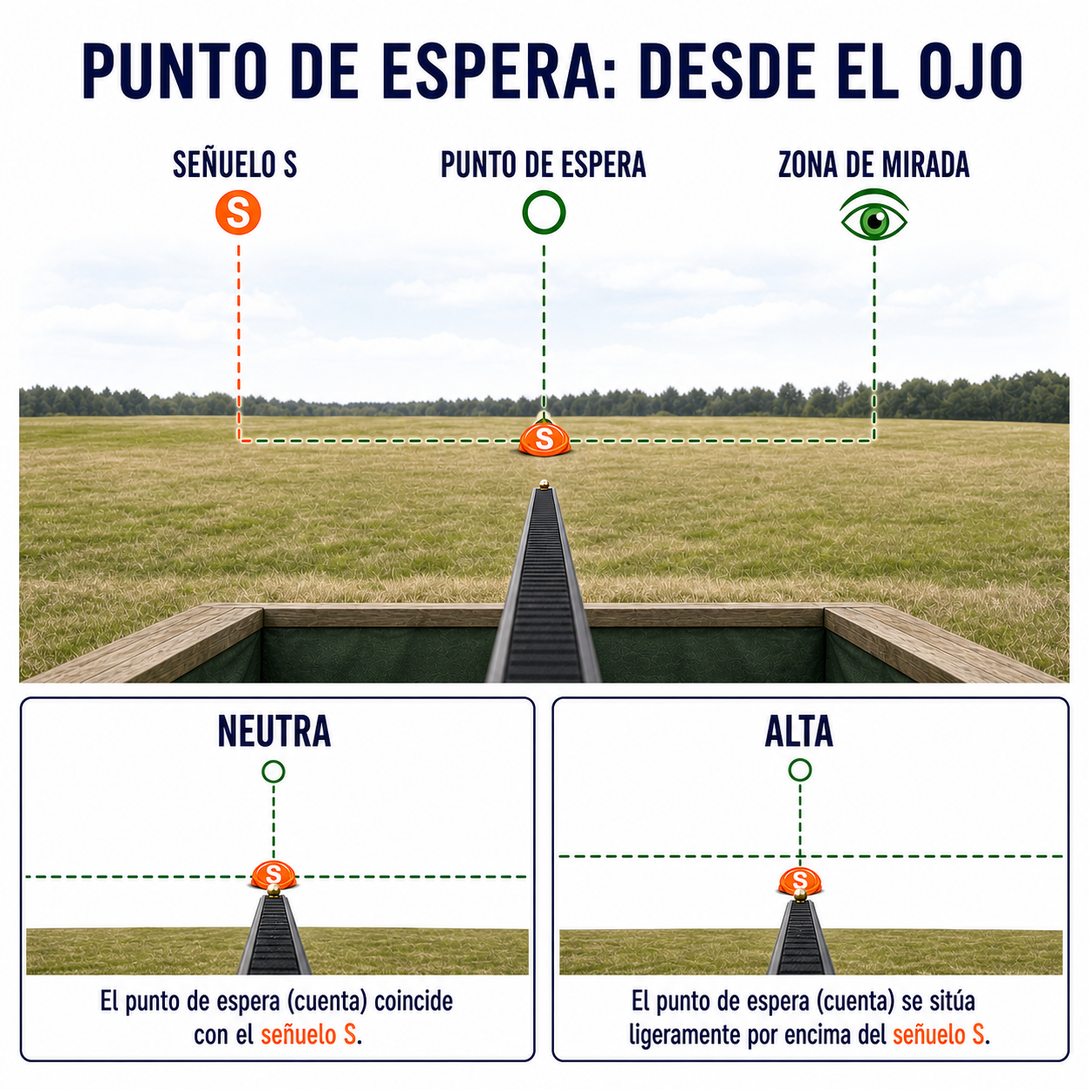
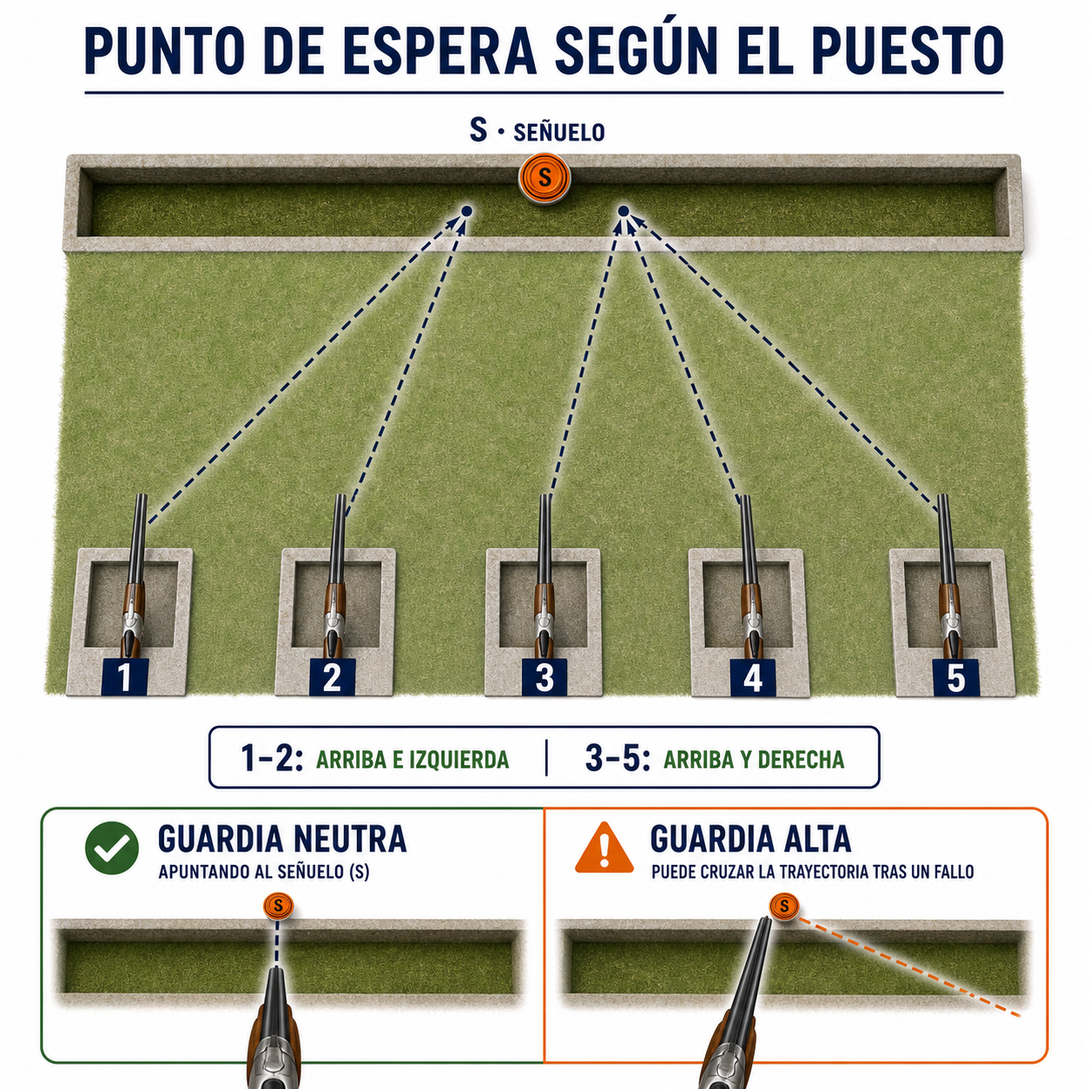
docs: corrige infografias y dinamica de cancha

diff --git a/index.html b/index.html
@@ -874,17 +874,18 @@
     <span class="section-number">4.3</span>
     <h3>Partes de una cancha de foso</h3>
   <p class="section-bridge">En una instalación compartida hay que respetar los límites y las órdenes de cada cancha, aunque alguna parezca parada. En una cancha de foso, la organización se divide en puestos, foso, máquinas y campo de caída.</p>
-    <p class="section-lead"><strong>Cinco puestos en línea</strong> miran hacia un foso situado a quince metros. El número y la posición de las máquinas dependen de la modalidad.</p>
+    <p class="section-lead"><strong>Cinco puestos forman una línea recta</strong>. El foso universal queda quince metros por delante y el sector de vuelo continúa más allá.</p>
     <figure class="figure micro-figure">
-      <img loading="lazy" src="docs/manual-libro/assets/images/infografias/subapartados/04-03-partes-de-una-cancha-de-foso.png" width="1254" height="1254" alt="Vista superior y corte lateral de una cancha de foso universal con cinco puestos, distancia de quince metros, cinco máquinas y sector de vuelo">
-      <figcaption>Esquema didáctico de foso universal: cinco máquinas. En foso olímpico, el mismo frente de cinco puestos trabaja con quince máquinas agrupadas de tres en tres.</figcaption>
+      <img loading="lazy" src="docs/manual-libro/assets/images/infografias/subapartados/04-03-partes-de-una-cancha-de-foso.png" width="1254" height="1254" alt="Vista superior de una cancha de foso universal: zona de espera detrás, cinco puestos en línea recta, foso a quince metros con cinco máquinas alineadas y sector de vuelo más allá del foso">
+      <figcaption>Foso Universal: espera detrás, cinco puestos en línea, quince metros hasta el foso, cinco máquinas alineadas dentro y sector de vuelo al fondo. El Foso Olímpico mantiene cinco puestos, pero emplea quince máquinas agrupadas de tres en tres.</figcaption>
     </figure>
-    <p>Los cinco puestos se numeran de izquierda a derecha. Cada uno mide un metro por un metro y está a quince metros del borde frontal del foso, dentro de las tolerancias reglamentarias. Una sexta persona espera detrás o junto al puesto 1.</p>
-    <p>El foso está protegido y en parte bajo tierra. El olímpico contiene quince máquinas, agrupadas de tres en tres. El universal contiene cinco. La figura muestra esta segunda configuración. En ambos casos, las máquinas lanzan desde debajo de la cubierta.</p>
-    <p>Por delante está el sector de vuelo. No debe confundirse con toda la zona de seguridad del campo. El reglamento deportivo limita las trayectorias válidas; el Reglamento de Armas protege un espacio mucho mayor alrededor de la instalación.</p>
+    <p>Los cinco puestos se numeran de izquierda a derecha y forman una sola línea. El foso está quince metros por delante de esa línea. La zona de espera queda detrás de los tiradores, nunca entre los puestos y el foso.</p>
+    <p>En Foso Universal hay <strong>cinco máquinas alineadas dentro del foso</strong>, una frente a cada parte de la línea de tiro. El foso está protegido y en parte bajo tierra. Los platos salen desde debajo de su cubierta y continúan hacia el campo.</p>
+    <p>Más allá del foso está el sector de vuelo. No debe confundirse con toda la zona de seguridad del campo. El reglamento limita las trayectorias válidas y el Reglamento de Armas protege un espacio mayor alrededor de la instalación.</p>
+    <p>En Foso Olímpico también hay cinco puestos en línea, pero el foso contiene quince máquinas: tres por cada puesto. Esta diferencia cambia el origen de los platos y no debe ocultarse en un dibujo genérico.</p>
     <p>La misma trayectoria se percibe de forma distinta desde cada puesto. Un plato puede parecer lateral desde el puesto 1 y casi frontal desde el 3. Cambia la posición del tirador, no el vuelo del plato.</p>
     <aside class="field-note"><strong>Ejemplo concreto.</strong> En foso universal, una salida de la máquina situada más a la derecha puede alejarse hacia la izquierda del campo. La persona del puesto 1 la percibe cruzando buena parte de su visión. Desde el puesto 5, el mismo origen queda más cerca y el ángulo aparente cambia. El número de máquina y el número de puesto no son intercambiables.</aside>
-    <p>La idea básica es fácil de recordar: <strong>cinco puestos, quince metros y el foso delante</strong>. La infografía explica relaciones espaciales, pero no sustituye el plano aprobado de una cancha real.</p>
+    <p>La idea básica es fácil de recordar: <strong>espera detrás, cinco puestos en línea, foso delante y vuelo más allá</strong>. La infografía explica relaciones espaciales, pero no sustituye el plano aprobado de una cancha real.</p>
     <aside class="technical-note"><strong>Lectura técnica.</strong> Hay que separar la obra del foso, la configuración de las máquinas y la visión desde cada puesto. Son tres problemas relacionados, pero distintos.</aside>
 </article>
 
@@ -953,9 +954,16 @@
       <img loading="lazy" src="docs/manual-libro/assets/images/infografias/subapartados/04-07-como-se-pide-un-plato.png" width="1254" height="1254" alt="Cadena de petición de plato mediante voz, micrófono, control, máquina y salida, con ruta de incidencia si la llamada no se detecta">
       <figcaption>La petición debe ser breve y reconocible. Si el sistema no responde, decide el árbitro o responsable. No decide el tirador por su cuenta.</figcaption>
     </figure>
-    <p>Cuando le toca, el tirador se prepara y dice “pull”, “va” u otra voz admitida. La palabra importa menos que su claridad. Conviene usar siempre una duración y un volumen parecidos.</p>
-    <p>El lanzamiento puede activarse con un pulsador o mediante micrófonos. El foso universal suele usar un sistema sono-pull que detecta la voz y distribuye las trayectorias. La salida debe ser inmediata, aunque siempre existe una pequeña demora del sistema.</p>
-    <p>Si el plato no sale, el tirador mantiene el arma controlada y espera. No vuelve a pedirlo ni decide la repetición por su cuenta. El árbitro o responsable determina qué ha ocurrido.</p>
+    <p>Cuando le toca, el tirador se prepara y utiliza una llamada que active el sistema: <em>pull</em>, <em>go</em>, «los» u otra admitida por la organización. Lo importante es que sea <strong>clara, breve y estable</strong>. Conviene mantener una duración, un volumen y un tono parecidos en cada plato.</p>
+    <p>El lanzamiento puede activarse con pulsador o con micrófonos. El sistema de voz escucha la llamada y ordena la salida del plato. No reconoce una palabra como un asistente de voz: responde al sonido. Por eso una voz concreta puede no activar bien un micrófono aunque otras sí lo hagan.</p>
+    <p>Si el sistema no detecta una llamada, el tirador mantiene el arma controlada y espera. No llama varias veces seguidas ni decide por su cuenta. Bajo la dirección del árbitro, puede probar una pequeña variación de vocal o de tono para que el micrófono reconozca mejor la llamada. El manual de Canterbury también advierte que algunas voces necesitan un ligero ajuste.</p>
+    <p>Antes de la primera ronda de cada día, FITASC permite una prueba del arma o <em>fogueo</em>. Se hace <strong>un tirador cada vez</strong>, en su puesto, siguiendo el orden de la escuadra y solo cuando lo ordena el árbitro. Los cañones apuntan hacia el campo y por encima de la caseta del foso, dentro de la zona segura.</p>
+    <figure class="figure supplemental-figure">
+      <img loading="lazy" src="docs/manual-libro/assets/images/infografias/extras/04-07-fogueo-y-llamada.png" width="1254" height="1254" alt="Infografía de seguridad sobre el fogueo autorizado antes de la primera serie y la llamada clara al micrófono de voz">
+      <figcaption>El fogueo se realiza de uno en uno y por orden del árbitro. La llamada debe ser breve y clara; si el micrófono no responde, se espera la indicación del responsable.</figcaption>
+    </figure>
+    <p>Esta prueba evita que el primer disparo puntuable llegue completamente en frío. También permite comprobar la secuencia de encare, seguro y disparo antes de pedir el primer plato. <strong>No sustituye la comprobación del estado del arma</strong> antes de cada intervención.</p>
+    <p>En algunos campos existe la costumbre de empezar ese fogueo por el sexto tirador o por quien está en espera. Es una organización local. No debe presentarse como una regla universal: el orden válido es el que indique el árbitro conforme al reglamento y al funcionamiento de la cancha.</p>
     <aside class="field-note"><strong>Ejemplo concreto.</strong> Elena dice “va” una sola vez y no aparece ningún blanco. Permanece en el puesto y mira al responsable. Este confirma que el micrófono no registró la voz. Reinicia la secuencia y le indica cuándo volver a pedir. La ausencia de plato no se convierte en dos llamadas superpuestas.</aside>
     <aside class="personal-note"><strong>Comentario personal.</strong> Practicar varias llamadas iguales, sin lanzar platos, puede reducir la tensión. Debe hacerse con permiso del monitor.</aside>
     <p>El simulador representa la orden, una demora y el vuelo. No reproduce la acústica, el micrófono ni las averías de una cancha real.</p>
@@ -1155,9 +1163,9 @@
   <aside class="personal-note"><strong>Comentario personal.</strong> En mi entorno he oído llamar «caramelo» a esa molestia o inflamación de la cara. Es una palabra de campo, no un término clínico.</aside>
   <p>La mano dominante no basta para elegir el lado ni el ajuste de la culata. También importan el hombro de apoyo y el ojo director. La prueba sencilla del ojo director se explica en <a href="#s06-10">6.10, Mirar el cañón en vez del plato</a>. Si el ojo director y el hombro de tiro no coinciden, un instructor debe valorar la postura y las posibles ayudas visuales antes de modificar el arma.</p>
   <figure class="figure supplemental-figure"><img loading="lazy" src="docs/manual-libro/assets/images/infografias/extras/05-08-ojo-director.png" alt="Prueba sencilla del triángulo formado con las manos para identificar el ojo director" width="1254" height="1254"><figcaption>El ojo que mantiene el objeto centrado al alternar el cierre de cada ojo es el ojo director. La cabeza y las manos deben permanecer quietas.</figcaption></figure>
-  <figure class="figure supplemental-figure"><img loading="lazy" src="docs/manual-libro/assets/images/infografias/extras/05-08-dominancia-cruzada.png" alt="Dominancia cruzada en un tirador diestro y uso orientativo de un pequeño oclusor en el lente izquierdo" width="1254" height="1254"><figcaption>Un pequeño oclusor puede evitar que el ojo dominante vea el punto de mira y permitir mantener ambos ojos abiertos. Debe colocarse y comprobarse con ayuda de un instructor.</figcaption></figure>
-  <p>Un experto puede observar desde delante y fuera de la línea de la boca si el ojo queda centrado sobre la banda. <strong>La comprobación empieza siempre con la escopeta abierta, descargada y orientada de forma segura.</strong> Nunca se mira por la boca ni se enfrenta la línea de los cañones. Esta observación detecta desalineaciones, pero el ajuste final exige varios encares y una prueba de plomeo.</p>
-  <figure class="figure supplemental-figure"><img loading="lazy" src="docs/manual-libro/assets/images/infografias/extras/05-08-comprobacion-segura-ajuste.png" alt="Vista superior de una comprobación segura del ajuste con el arma abierta, zona segura y el instructor situado a un lateral" width="1254" height="1254"><figcaption>La observación se realiza con el arma abierta y vacía, orientada a una zona segura y sin nadie delante de las bocas.</figcaption></figure>
+  <figure class="figure supplemental-figure"><img loading="lazy" src="docs/manual-libro/assets/images/infografias/extras/05-08-dominancia-cruzada.png" alt="Tirador diestro con ojo director izquierdo y pequeño oclusor colocado por un instructor en la lente izquierda, sobre la línea visual de ese ojo" width="1254" height="1254"><figcaption>Si un tirador diestro tiene como director el ojo izquierdo, un instructor puede colocar un pequeño oclusor en la lente izquierda, justo sobre la línea con la que ese ojo ve el punto de mira. Así se reduce su interferencia y puede ser posible mantener ambos ojos abiertos.</figcaption></figure>
+  <p>En algunos campos existe una práctica para comprobar desde delante si el ojo, la banda y el punto de mira quedan alineados. <strong>Es una maniobra intrínsecamente peligrosa porque una persona se sitúa delante de las bocas.</strong> Nunca debe improvisarse ni realizarse entre tiradores. Solo puede dirigirla un instructor competente o la persona responsable de la instalación, con la escopeta abierta y completamente descargada, las recámaras comprobadas física y visualmente y toda la munición retirada de la zona. Siempre deben preferirse alternativas más seguras que no coloquen a nadie delante de los cañones. Esta observación puede revelar una desalineación, pero no sustituye varios encares ni una prueba de plomeo.</p>
+  <figure class="figure supplemental-figure"><img loading="lazy" src="docs/manual-libro/assets/images/infografias/extras/05-08-comprobacion-segura-ajuste.png" alt="Comprobación excepcional de la alineación ojo, banda y punto desde delante de una escopeta abierta y totalmente descargada, dirigida por un instructor competente y sin munición presente" width="1254" height="1254"><figcaption>Esta comprobación frontal existe como práctica de campo, pero implica que alguien esté delante de las bocas. No se improvisa: solo la dirige una persona competente, con el arma abierta y totalmente descargada, recámaras verificadas y sin munición; siempre se prefieren alternativas más seguras.</figcaption></figure>
   <p>La ropa de invierno cambia la longitud efectiva y el apoyo. Por eso el ajuste debe comprobarse en las condiciones habituales, sin perseguir diferencias mínimas cada semana.</p>
   <aside class="field-note"><strong>Ejemplo concreto.</strong> Pablo repite cinco encares descargados. El instructor ve que inclina la cabeza, corrige primero la postura y solo después mueve el lomo. Finalmente comprueba el resultado en una plancha de plomeo.</aside>
   <aside class="technical-note"><strong>Capa técnica.</strong> Un ajuste quieto no garantiza un buen encare en movimiento. Se anotan las medidas, se cambia una sola variable y se vuelve a comprobar.</aside>
@@ -1915,17 +1923,19 @@
     <span class="section-number">8.10</span>
     <h3>Punto de espera</h3>
   <p class="section-bridge">Cada método organiza de forma distinta la aproximación, el adelanto y la continuación del movimiento, pero todos buscan el mismo encuentro físico. El punto de espera marca dónde comienza ese recorrido.</p>
-    <p class="section-lead"><strong>El punto de espera es la orientación inicial de los cañones antes de la salida.</strong> Debe verse siempre desde el ojo del tirador hacia el señuelo, no desde fuera ni desde abajo.</p>
+    <p class="section-lead"><strong>El punto de espera es la orientación inicial de una escopeta superpuesta antes de la salida.</strong> Se describe en primera persona: desde mi ojo, alineado detrás de la banda superior y el punto delantero, miro hacia el señuelo S.</p>
     <figure class="figure micro-figure">
-      <img loading="lazy" src="docs/manual-libro/assets/images/infografias/subapartados/08-10-punto-de-espera.png" width="1254" height="1254" alt="Secuencia espacial entre máquina, zona de mirada, punto de espera, adquisición y zona de rotura">
-      <figcaption>Mirada y cañón usan referencias distintas. El ojo detecta antes. El arma espera en una zona desde la que puede incorporarse con fluidez.</figcaption>
+      <img loading="lazy" src="docs/manual-libro/assets/images/infografias/subapartados/08-10-punto-de-espera.png" width="1254" height="1254" alt="Vista en primera persona desde el ojo del tirador, alineado con la banda superior y el punto delantero de una escopeta superpuesta: guarda neutra sobre el señuelo S y referencias de entrenamiento ligeramente arriba a la izquierda en los puestos 1 y 2, y ligeramente arriba a la derecha en los puestos 3, 4 y 5">
+      <figcaption>Desde mi ojo hacia el señuelo S: guarda neutra sobre S; como referencia de entrenamiento del autor, puestos 1-2 ligeramente arriba a la izquierda y puestos 3-5 ligeramente arriba a la derecha. Son orientaciones de la superpuesta, no posiciones físicas del tirador ni una regla universal.</figcaption>
     </figure>
-    <p>Desde el ojo, el tirador mira hacia el señuelo mientras la escopeta queda encarada. Esperar directamente sobre la boca de la máquina puede tapar la primera visión y obligar a perseguir el plato. La CPSA aconseja una orientación que conserve campo visual y dé tiempo para entrar en la línea.</p>
-    <p>Tampoco conviene colocar el arma tan lejos que obligue a volver sobre el blanco o a sostener tensión innecesaria. El lugar depende del puesto, la modalidad, la dirección posible, la altura, el método y la postura. En foso, donde la salida puede variar dentro de un sector, el punto de espera es un compromiso. Debe permitir responder a izquierda, centro y derecha sin intentar adivinar una máquina concreta.</p>
+    <p>La referencia concreta aportada por el autor para entrenar es esta: <strong>en los puestos 1 y 2, orientar la superpuesta ligeramente por encima y a la izquierda del señuelo S; en los puestos 3, 4 y 5, ligeramente por encima y a la derecha.</strong> Describe una aproximación de entrenamiento basada en su experiencia. No sustituye la indicación de un instructor ni sirve como regla universal para cualquier tirador, modalidad o cancha.</p>
+    <p>La guarda neutra coloca la orientación inicial sobre el señuelo S. Desde ahí, la escopeta tiene una ruta directa para entrar en la trayectoria que aparezca y facilita mantener la continuidad si hace falta un segundo disparo. No elimina la necesidad de detectar el plato, leer su dirección y adaptar el movimiento.</p>
+    <p>Una guarda más alta puede acortar el primer movimiento cuando la salida coincide con la previsión. También introduce un riesgo: los cañones pueden cruzar la línea de vuelo. Si el primer tiro falla, quizá haya que volver a encontrar el plato y reconstruir el apunte. Para entonces estará más lejos y puede haber empezado a descender. El problema aumenta en quien está acostumbrado a una banda plana y cubre el plato con la superpuesta, porque puede perderlo de vista justo cuando necesita preparar el segundo tiro.</p>
+    <p>Tampoco conviene orientar el arma tan lejos que obligue a volver sobre el blanco o a mantener tensión. El punto adecuado depende del puesto, la modalidad, la salida posible, el método, la postura y la adaptación de la superpuesta. En foso es un compromiso que debe permitir responder a izquierda, centro y derecha sin adivinar una máquina concreta.</p>
     <p><strong>Zona de mirada, punto de espera y zona de rotura no son lo mismo.</strong> Los ojos esperan detectar; los cañones parten de una orientación; y el disparo se completa más adelante. Si el alumno fija la vista en el punto de mira, pierde información del fondo y del plato.</p>
     <p>La postura se organiza hacia la zona de rotura para conservar recorrido corporal a ambos lados. Un instructor debe adaptar esta decisión a la movilidad y lateralidad del tirador. La boca permanece siempre dentro de la zona autorizada.</p>
-    <p>Plato incluye una posición de guardia y reajusta el encare al pedir o repetir. Esa guardia es una referencia de interfaz, no una indicación para la cancha. Su utilidad didáctica aparece al comparar puestos. Mantener el esquema y cambiar el ojo virtual permite ver que la misma máquina modifica el ángulo aparente. Por eso puede justificar otra espera.</p>
-    <aside class="field-note"><strong>Ejercicio concreto.</strong> Con un instructor, elige una salida repetible y marca verbalmente «mirada», «espera» y «rotura». Haz varias observaciones sin cambiar esos tres lugares. Si el plato cruza el cañón antes de verse nítido, revisa primero la separación entre mirada y espera.</aside>
+    <p>Plato incluye una posición de guardia y reajusta el encare al pedir o repetir. Es una referencia de interfaz, no una prescripción para la cancha. Su utilidad consiste en comparar, desde el ojo virtual, cómo cambia el recorrido inicial entre la guarda neutra y una guarda algo más alta.</p>
+    <aside class="field-note"><strong>Ejercicio concreto.</strong> Con un instructor, compara la guarda neutra sobre S con la referencia del puesto: ligeramente arriba-izquierda en 1-2 o arriba-derecha en 3-5. Observa la ruta del primer movimiento y, tras un fallo simulado, si puedes conservar el plato visible y construir el segundo sin volver a buscarlo.</aside>
     <aside class="technical-note"><strong>Problema de optimización.</strong> El punto de espera reduce el recorrido esperado del arma cuando hay incertidumbre. Pero no puede hacerlo mínimo para todas las trayectorias a la vez. Una elección razonable equilibra visibilidad, amplitud angular y capacidad corporal. Los valores óptimos son personales y dependen del contexto.</aside>
 </article>
 
@@ -1950,36 +1960,36 @@
     <span class="section-number">8.12</span>
     <h3>Relación entre culata y geometría</h3>
   <p class="section-bridge">La mirada necesita espacio para encontrar y reconocer el blanco antes de guiar el arma; mirar el cañón reduce esa información. La relación entre la culata y el ojo puede facilitar o dificultar esta visión.</p>
-    <p class="section-lead"><strong>En una escopeta, el ojo que queda sobre la banda actúa como referencia trasera.</strong> La culata decide dónde se coloca ese ojo. Por eso la altura, la lateralidad y la repetición del encare pueden cambiar el centro del patrón respecto a la imagen.</p>
+    <p class="section-lead"><strong>En una escopeta superpuesta, el ojo actúa como referencia trasera al quedar alineado detrás de la banda superior y del punto delantero.</strong> Se apunta a lo largo de esa banda; nunca se mira a través de la culata.</p>
     <figure class="figure micro-figure">
-      <img loading="lazy" src="docs/manual-libro/assets/images/infografias/subapartados/08-12-relacion-entre-culata-y-geometria.png" width="1254" height="1254" alt="Relación entre altura del lomo, posición del ojo, banda visible y punto de impacto comprobado en plancha">
-      <figcaption>Elevar el ojo cambia la orientación que adopta el arma. Pero el resultado debe medirse con un patrón y un encare repetible, no deducirse solo por la banda visible.</figcaption>
+      <img loading="lazy" src="docs/manual-libro/assets/images/infografias/subapartados/08-12-relacion-entre-culata-y-geometria.png" width="1254" height="1254" alt="Vista desde el ojo detrás de la banda superior de una escopeta superpuesta, alineada con el punto delantero; la culata coloca el ojo pero nunca se mira a través de ella, y el punto de impacto se comprueba en plancha">
+      <figcaption>En una superpuesta, el ojo queda detrás de la banda superior y orienta con el punto delantero. La culata coloca el ojo; no es un elemento a través del cual se mire. El resultado se comprueba con encare repetible y plomeo real.</figcaption>
     </figure>
-    <p>Una escopeta no tiene, en el uso tradicional, alza y punto como un rifle. Cuando se monta de forma constante, el ojo situado sobre la culata completa la línea de orientación. Si queda demasiado bajo, alto o desplazado, el tirador puede presentar otra dirección aunque el punto delantero parezca cerca del plato. La cantidad de banda visible es una señal de encare. No es, por sí sola, una medida del punto de impacto.</p>
-    <p>Subir un lomo ajustable eleva la mejilla y normalmente también el ojo. En modelos documentados por Browning, el lomo permite variar altura y <em>cast</em> para alinear el ojo con el plano de la banda. <em>Cast</em> es el desplazamiento lateral de la culata. La Citori Plus ofrece además una banda regulable que cambia el punto de impacto. Estos mecanismos no deben generalizarse. Cada sistema tiene recorrido, pivote y procedimiento propios, y se ajusta con el arma descargada siguiendo su manual.</p>
+    <p>Una superpuesta de plato no se apunta como un rifle. Al encararla de forma constante, el ojo queda como referencia trasera detrás de la banda superior y el punto delantero. La orientación se construye mirando a lo largo de la parte alta de la banda hacia ese punto, con la atención principal en el plato. <strong>Nunca se mira a través de la culata:</strong> la culata solo coloca la cara y, con ella, el ojo. Si el ojo queda bajo, alto o desplazado, cambia la dirección presentada aunque el punto delantero parezca cercano al plato.</p>
+    <p>Subir un lomo ajustable eleva la mejilla y normalmente también el ojo respecto a la banda superior. En los modelos superpuestos documentados por Browning, el lomo permite variar altura y <em>cast</em> para alinear el ojo con el plano de la banda. <em>Cast</em> es el desplazamiento lateral de la culata. La Citori Plus ofrece además una banda regulable que cambia el punto de impacto. Estos mecanismos no deben generalizarse: cada superpuesta tiene su propio recorrido y procedimiento, y se ajusta descargada según su manual.</p>
     <p>Una escopeta que dispara alto coloca más parte del patrón sobre el punto de mira y puede mantener visible un plato ascendente. Una configuración más plana centra el patrón cerca de la línea señalada. Expresiones como 50/50 o 70/30 describen una distribución observada a una distancia y con un método de plomeo. No son una propiedad exacta que permanezca igual con cualquier cartucho, choke, encare o distancia.</p>
     <p>La técnica y la mecánica se confunden con facilidad. Si la cara se despega en el primer disparo, el ojo cambia y el segundo sale desde otra geometría. Elevar el lomo no corrige ese hábito. Si varios patrones repetidos con cuidado muestran un centro estable fuera de la referencia, entonces hay base para revisar la adaptación. El orden es comprobar encare, medir patrón, cambiar poco y volver a medir con ayuda competente.</p>
     <p>Plato representa la ganancia de solista como una elevación balística del disparo sin cambiar el ancho visual de la banda. Es una abstracción declarada. Permite observar cómo un centro más alto cambia la referencia amarilla, pero no reproduce anatomía, convergencia de cañones ni el mecanismo concreto de una culata.</p>
     <aside class="field-note"><strong>Decisión práctica.</strong> Antes de mover tornillos, el tirador hace varias montas supervisadas y varios patrones según el manual. Si el centro varía de uno a otro, se trabaja la repetibilidad. Si permanece desplazado, se registra el ajuste inicial y se consulta a un instructor, armero o fabricante.</aside>
-    <aside class="technical-note"><strong>Cadena angular.</strong> Culata, ojo, banda y eje del patrón forman una cadena de orientaciones. Un pequeño cambio cerca del ojo produce un desplazamiento que crece con la distancia. Esta relación no permite predecir centímetros sin conocer la geometría del arma y sin hacer una prueba real.</aside>
+    <aside class="technical-note"><strong>Cadena angular.</strong> En una superpuesta, la culata coloca el ojo; el ojo queda detrás de la banda superior; la banda conduce al punto delantero; y esa orientación se relaciona con el eje del patrón. Un pequeño cambio cerca del ojo crece con la distancia, pero no permite predecir centímetros sin conocer el arma y comprobarla en una prueba real.</aside>
 </article>
 
   <article class="book-section" id="s08-13" data-section="8.13">
     <span class="section-number">8.13</span>
     <h3>Primer y segundo disparo</h3>
   <p class="section-bridge">La culata no cambia la trayectoria del plato, pero sí relaciona lo que ve el ojo con el centro del patrón. Esta relación es especialmente importante al comparar el primer y el segundo disparo.</p>
-    <p class="section-lead"><strong>El segundo disparo no repite la fotografía del primero.</strong> El plato está más lejos, en otra fase de su arco, y puede haberse perdido un instante detrás de los cañones o de la propia rotura.</p>
+    <p class="section-lead"><strong>En una superpuesta, ambos disparos se orientan desde el ojo por la banda superior y el punto delantero.</strong> El segundo no repite el primero: el plato está más lejos y en otra fase de su vuelo.</p>
     <figure class="figure micro-figure">
-      <img loading="lazy" src="docs/manual-libro/assets/images/infografias/subapartados/08-13-primer-y-segundo-disparo.png" width="1254" height="1254" alt="Cronología comparada del primer y segundo disparo con mayor distancia, trayectoria avanzada, chokes distintos y recuperación visual sin levantar la cabeza">
-      <figcaption>Entre los dos tiros cambian distancia, altura, velocidad y patrón. La continuidad de mirada, cara y arma permite construir una segunda solución en vez de repetir la primera.</figcaption>
+      <img loading="lazy" src="docs/manual-libro/assets/images/infografias/subapartados/08-13-primer-y-segundo-disparo.png" width="1254" height="1254" alt="Vista desde el ojo alineado detrás de la banda superior y el punto delantero de una escopeta superpuesta durante el primer y segundo disparo; el plato está más lejos y puede descender, sin mirar nunca a través de la culata">
+      <figcaption>Desde el ojo, la referencia sigue la banda superior y el punto delantero de la superpuesta. Entre los tiros cambian distancia, altura y patrón; mantener cara, mirada y movimiento ayuda a construir la segunda solución sin mirar a través de la culata ni volver a buscar el plato.</figcaption>
     </figure>
-    <p>Tras un primer fallo, el plato continúa. La distancia adicional alarga el recorrido del plomeo. El blanco puede estar cerca de la cumbre o haber empezado a bajar. Su velocidad vertical cambia y su tamaño aparente disminuye. Por tanto, mantener exactamente la misma orientación del primer disparo no garantiza otro encuentro. Hay que actualizar la lectura sin convertir el segundo tiro en un tirón desesperado.</p>
-    <p>La nube también puede ser distinta. Muchas escopetas superpuestas combinan un primer cañón más abierto con un segundo más cerrado para conservar densidad a mayor distancia. La elección depende de la presentación, la modalidad y el reglamento. Un choke más cerrado no «lleva más lejos» el centro ni corrige un error de dirección. Cambia la distribución. Cartucho, cañón y choke reales deben comprobarse en plancha. El simulador usa controles separados para los dos plomeos y genera variación entre perdigones. Es una comparación pedagógica, no una prueba del arma.</p>
-    <p>El problema más visible suele aparecer entre disparos. El tirador levanta la cabeza para comprobar si rompió, mira los fragmentos o pierde el plato detrás del cañón. Al volver, el ojo ya no ocupa la misma referencia y la línea ha envejecido. Mantener la mejilla en contacto, la atención en el blanco y el arma en movimiento conserva información para corregir. No significa disparar dos veces de forma automática. Las reglas, el estado del blanco y la seguridad determinan cuándo procede.</p>
+    <p>Tras un primer fallo, el plato continúa. La distancia adicional alarga el recorrido del plomeo; el blanco puede estar cerca de la cumbre o haber empezado a bajar. El tirador mantiene el ojo detrás de la banda superior de la superpuesta y orienta por el punto delantero, pero actualiza el encuentro. Repetir exactamente el primer apunte no garantiza el segundo.</p>
+    <p>La nube también puede ser distinta. Muchas superpuestas de plato combinan un primer cañón más abierto con un segundo más cerrado para conservar densidad a mayor distancia. Es una configuración frecuente, no una regla universal: depende del arma, la modalidad y el reglamento. Un choke más cerrado no corrige la dirección; cambia la distribución. Cartucho, cañón y choke deben comprobarse en plancha. Los dos controles de Plato son una comparación pedagógica, no una prueba de la superpuesta real.</p>
+    <p>El problema más visible aparece cuando el tirador levanta la cabeza para comprobar el resultado o pierde el plato detrás de los cañones. Al volver, el ojo ya no ocupa la misma referencia detrás de la banda superior. Mantener la mejilla en contacto, la atención en el blanco y la superpuesta en movimiento conserva información para corregir. No significa disparar dos veces de forma automática: las reglas, el estado del blanco y la seguridad determinan cuándo procede.</p>
     <p>La corrección debe basarse en la evidencia disponible. Si el primer tiro levantó un fragmento visible de la parte trasera, podría sugerir un encuentro retrasado. Pero una rotura parcial no es un instrumento preciso. Si no hubo señal, el tirador no debe inventar una gran compensación. Un instructor puede observar continuidad, altura de cabeza y dirección. En el simulador, las dos ventanas congelan por separado el centro del patrón y sus componentes de error.</p>
     <p>Esta última unidad reúne el capítulo. La regla sigue siendo coincidencia en tiempo y espacio, pero cada instante construye un punto de encuentro nuevo. La comparación de cinco platos enseña que no existe un único hueco. La secuencia mirada, espera, aparición y seguimiento permite llegar a ese encuentro con orden. El segundo disparo demuestra por qué la geometría debe mantenerse viva hasta que termina la acción.</p>
     <aside class="field-note"><strong>Ejercicio concreto.</strong> En Plato, usa una trayectoria repetida y conserva visibles ambas correcciones. Dispara primero de forma deliberadamente retrasada y construye el segundo sin levantar el punto de vista. Compara distancia, altura y patrón de cada ventana. En cancha real, este trabajo exige supervisión y cumplimiento estricto de modalidad y seguridad.</aside>
-    <aside class="technical-note"><strong>Modelo y límite.</strong> El código aplica la misma velocidad efectiva base a ambos disparos. Cambia la apertura según el control de cada tiro y evalúa cada nube contra la posición futura correspondiente. No reproduce cambio real de cañón, retroceso, recuperación mecánica ni deformación específica del cartucho.</aside>
+    <aside class="technical-note"><strong>Modelo y límite.</strong> El código representa una superpuesta con dos disparos y aplica la misma velocidad efectiva base a ambos. Cambia la apertura y evalúa cada nube contra la posición futura correspondiente. No reproduce la geometría real de la banda superior y el punto delantero, el cambio de cañón, el retroceso, la recuperación mecánica ni la deformación específica del cartucho.</aside>
 </article>
 
   <div class="chapter-summary">
@@ -2467,8 +2477,8 @@
   <p class="section-bridge">El cartucho determina cuánto tarda el plomeo y qué energía conserva al llegar, no solo su velocidad de salida. Los chokes regulan la apertura de la nube en cada tiro.</p>
     <p class="section-lead"><strong>Plato permite elegir una apertura para el primer tiro y otra para el segundo.</strong> Un patrón más abierto cubre más espacio, pero no garantiza el acierto porque también reparte más los perdigones.</p>
     <figure class="figure micro-figure">
-      <img loading="lazy" src="docs/manual-libro/assets/images/infografias/subapartados/10-10-chokes.png" width="1254" height="1254" alt="Comparación de cuatro conos de plomeo etiquetados Full, tres cuartos, medio y abierto a dos distancias">
-      <figcaption>El deslizador controla la apertura del cono, no una probabilidad de acierto. Con distancia, el radio crece y la misma cantidad simulada de perdigones se reparte más.</figcaption>
+      <img loading="lazy" src="docs/manual-libro/assets/images/infografias/subapartados/10-10-chokes.png" width="1254" height="1254" alt="Escopeta superpuesta abierta y descargada junto a dos planchas que comparan el patrón más abierto de tres cuartos con el patrón más cerrado y denso de Full">
+      <figcaption>A la misma distancia, 3/4 cubre una zona mayor y Full concentra más el patrón. Ningún choke corrige un error de dirección.</figcaption>
     </figure>
     <p>Los controles se llaman «Plomeo tiro 1» y «Plomeo tiro 2», porque lo que el usuario ve es el patrón resultante. Cada uno recorre una escala interna de 0 a 100. La interfaz traduce los intervalos a etiquetas: hasta 20, Full; hasta 35, 3/4; hasta 55, 1/2; hasta 75, 1/4; y por encima, abierto. Los valores iniciales son 30 y 20, es decir, 3/4 para el primero y Full para el segundo.</p>
     <p>El radio del patrón se calcula con un término fijo, otro ligado al valor de apertura y otro que crece con la distancia. Un valor alto produce un cono más ancho; uno bajo, más estrecho. La nube azul en vivo adopta el control que corresponde al próximo cartucho. Después del primer disparo fallado, la visualización pasa automáticamente al segundo choke.</p>
@@ -2485,8 +2495,8 @@
   <p class="section-bridge">Elegir chokes distintos para el primer y el segundo tiro permite comparar densidades diferentes a distintas distancias. La ganancia de solista desplaza en vertical el centro real del disparo respecto a la mira.</p>
     <p class="section-lead"><strong>La mira puede quedar por debajo del centro real del disparo.</strong> Esta separación intenta mostrar de forma sencilla el efecto de la ganancia de solista sobre el punto de impacto.</p>
     <figure class="figure micro-figure">
-      <img loading="lazy" src="docs/manual-libro/assets/images/infografias/subapartados/10-11-ganancia-de-solista.png" width="1254" height="1254" alt="Corte lateral comparando solista plana y solista con ganancia, con mira roja, eje visual y centro físico del disparo">
-      <figcaption>La ganancia separa referencia visual y dirección física: la mira roja permanece sobre el objetivo elegido mientras el centro azul claro se eleva hasta 0,96°.</figcaption>
+      <img loading="lazy" src="docs/manual-libro/assets/images/infografias/subapartados/10-11-ganancia-de-solista.png" width="1254" height="1254" alt="Comparación desde el ojo del tirador entre ganancia plana y alta: la solista mantiene su anchura mientras el centro físico azul del disparo queda por encima del punto rojo de mira">
+      <figcaption>La ganancia no ensancha la solista. Mantiene la referencia roja y eleva el centro físico azul del disparo hasta el máximo modelado de 0,96°.</figcaption>
     </figure>
     <p>El control «Ganancia solista» va de 0 a 100 % en pasos de 5. Internamente ese porcentaje se convierte en un ángulo entre 0 y 0,96°. El botón «Plana» lo lleva a cero; el botón «Alta» lo fija en 65 %, equivalente a unos 0,62°. Son accesos rápidos, no dos tipos de arma completos.</p>
     <p>La mira roja sigue indicando dónde coloca el usuario la referencia. Cuando hay ganancia, el motor suma el ángulo al cabeceo físico del disparo. En pantalla aparece un punto azul claro algo más alto y una línea tenue entre ambos. La solución amarilla compensa esa elevación: para que el centro físico llegue al punto de encuentro, la referencia visual recomendada puede quedar algo más baja.</p>
@@ -4305,6 +4315,8 @@ python3 -m http.server --bind 127.0.0.1 8000</code></pre>
     <li><a href="https://www.cip-bobp.org/en/tdcc" target="_blank" rel="noopener">C.I.P.: tablas oficiales de dimensiones y cartuchería</a></li>
     <li><a href="https://pmc.ncbi.nlm.nih.gov/articles/PMC11212619/" target="_blank" rel="noopener">Caballero et al.: niveles de variabilidad en el aprendizaje de una tarea motora</a></li>
     <li><a href="https://campotirovalverde.es.tl/TARIFAS-.htm" target="_blank" rel="noopener">Campo de tiro Venta Las Tablas: tarifa publicada para una serie de 25 platos</a></li>
+    <li><a href="https://canterburyvoicerelease.gitlab.io/products/manuals/INSTRUCTION%20MANUAL%20SKEET%20USA%20version.pdf" target="_blank" rel="noopener">Canterbury Voice Release: manual del sistema de lanzamiento por voz y ajuste de llamadas no detectadas</a></li>
+    <li><a href="https://www.cvr.co.nz/products" target="_blank" rel="noopener">Canterbury Voice Release: sistemas de lanzamiento por voz para distintas modalidades</a></li>
     <li><a href="https://github.com/rcanalescoder/Plato/tree/main/docs/screenshots" target="_blank" rel="noopener">Capturas originales de la aplicación en el repositorio Plato</a></li>
     <li><a href="https://doi.org/10.1249/MSS.0b013e3182035de6" target="_blank" rel="noopener">Causer et al.: entrenamiento de quiet eye en una tarea de tiro de escopeta</a></li>
     <li><a href="https://doi.org/10.1249/MSS.0b013e3181d1b059" target="_blank" rel="noopener">Causer y colaboradores, mirada y movimiento del arma en tiro de escopeta</a></li>
